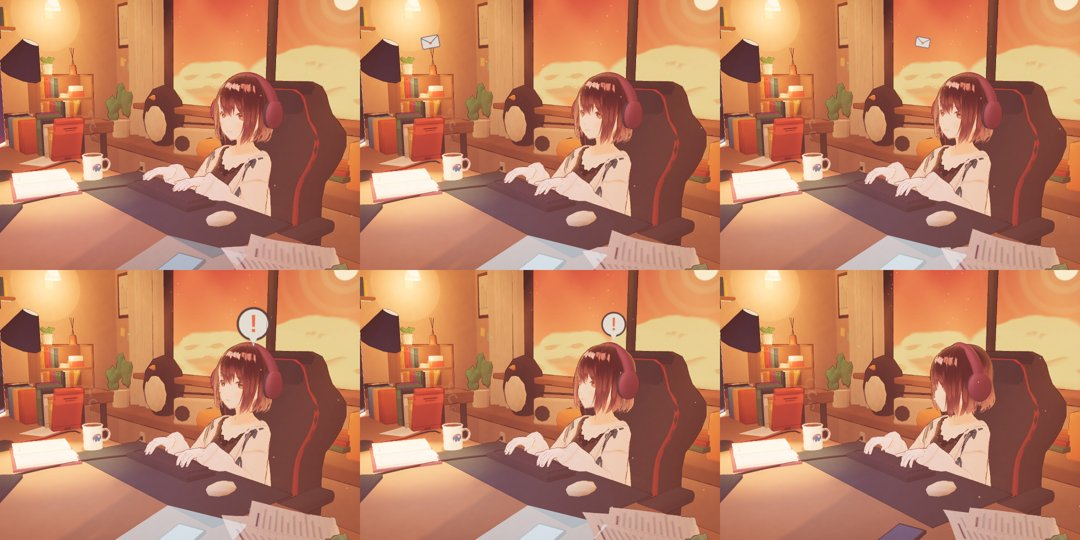
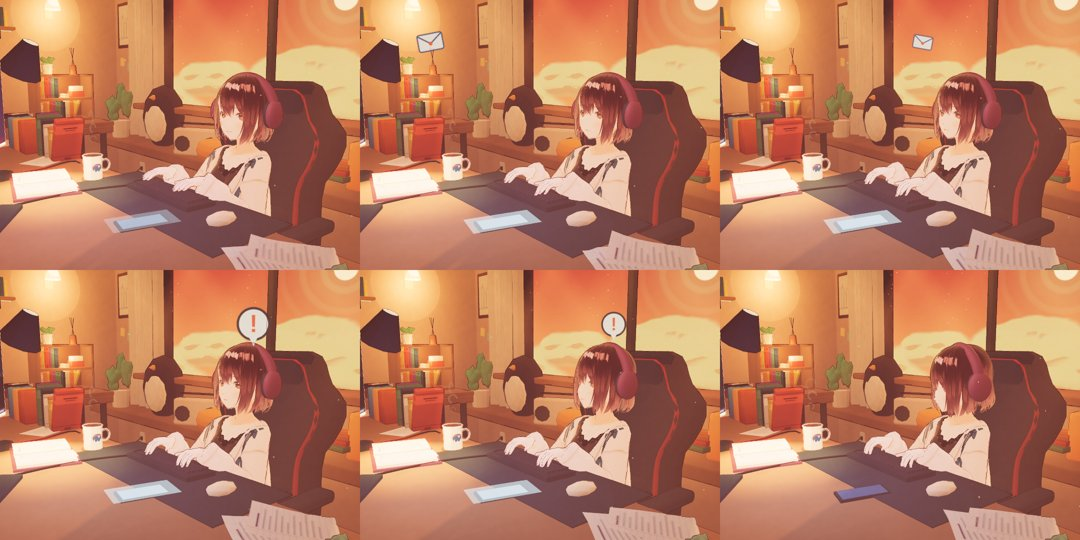
Move the VRM phone into the desk view and light only its screen
Claude-Session: https://claude.ai/code/session_0161ALjrUuyFpzFCNAEkL4SW

diff --git a/packages/vrm-companion/src/client/notice.ts b/packages/vrm-companion/src/client/notice.ts
@@ -3,6 +3,7 @@ import {
   CanvasTexture,
   Group,
   Mesh,
+  type Object3D,
   MeshBasicMaterial,
   PlaneGeometry,
   SRGBColorSpace,
@@ -62,7 +63,7 @@ const icon = (draw: (brush: CanvasRenderingContext2D) => void) => {
   return texture;
 };
 
-export function createNotice(phoneSpot: Vector3, screenSpot: Vector3) {
+export function createNotice(phone: Object3D, screenSpot: Vector3) {
   const root = new Group();
   const alertTexture = icon((brush) => {
     brush.fillStyle = '#fff6e0';
@@ -116,10 +117,11 @@ export function createNotice(phoneSpot: Vector3, screenSpot: Vector3) {
     blending: AdditiveBlending,
     depthWrite: false,
   });
-  const glow = new Mesh(new PlaneGeometry(0.22, 0.28), glowMaterial);
-  glow.rotation.set(-Math.PI / 2, 0, 0.35);
-  glow.position.copy(phoneSpot).add(new Vector3(0, 0.012, 0));
-  root.add(alert, envelope, glow);
+  const glow = new Mesh(new PlaneGeometry(0.11, 0.2), glowMaterial);
+  glow.rotation.x = -Math.PI / 2;
+  glow.position.y = 0.011;
+  phone.add(glow);
+  root.add(alert, envelope);
   alert.visible = envelope.visible = glow.visible = false;
   let age = Infinity;
   const lift = new Vector3();

diff --git a/packages/vrm-companion/src/client/room.ts b/packages/vrm-companion/src/client/room.ts
@@ -296,7 +296,7 @@ export function createRoom(seatHeight: number) {
   root.add(props.root);
   textures.push(...props.textures);
   const phoneHome = props.phone.position.clone();
-  const notice = createNotice(phoneHome, new Vector3(-0.65, surface + 0.36, 0.78));
+  const notice = createNotice(props.phone, new Vector3(-0.65, surface + 0.36, 0.78));
   root.add(notice.root);
   textures.push(...notice.textures);
   const notify = (delta: number, reduced: boolean, head: Vector3): NoticeFrame => {

diff --git a/packages/vrm-companion/src/client/props.ts b/packages/vrm-companion/src/client/props.ts
@@ -156,8 +156,8 @@ export function createProps(surface: number, sill: number, materials: Materials)
     pen.rotation.set(Math.sin(i * 1.6) * 0.18, 0, -Math.cos(i * 1.6) * 0.18);
   }
   const phone = new Group();
-  phone.position.set(1.0, surface, 0.52);
-  phone.rotation.y = 0.35;
+  phone.position.set(0.72, surface, 0.42);
+  phone.rotation.y = -0.25;
   root.add(phone);
   block(0, 0.004, 0, 0.072, 0.008, 0.15, dark, phone);
   const phoneScreen = toon(0x4c6a8a);
